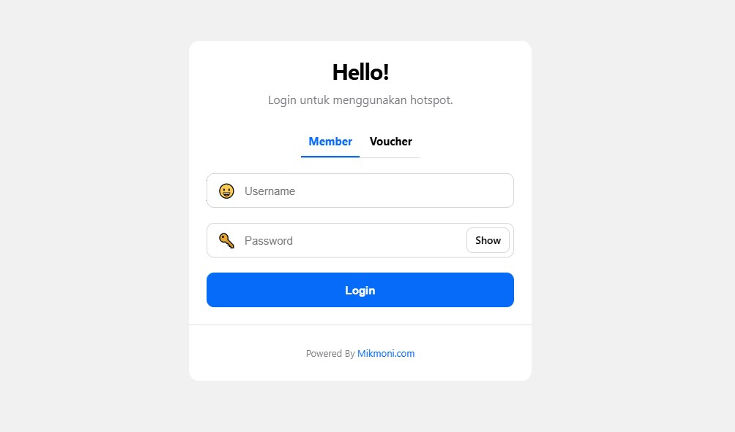
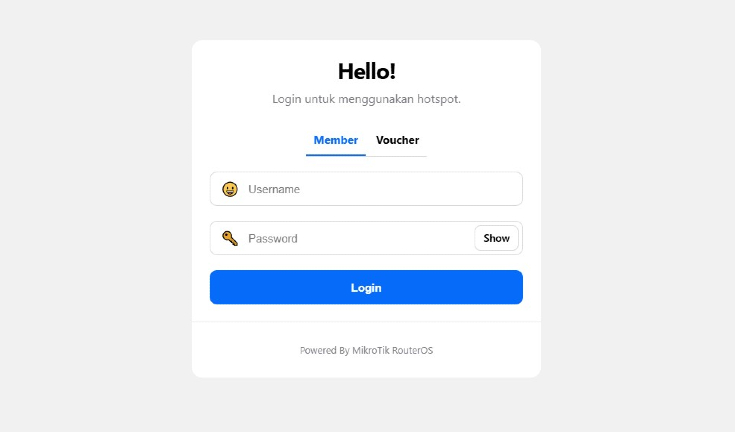
upload template manual from local

diff --git a/gmedia-old/public/page2/login.html b/gmedia-old/public/page2/login.html
@@ -1,38 +1,40 @@
 <!DOCTYPE html>
 <html lang="id">
-  <head>
-    <meta charset="UTF-8" />
-    <meta http-equiv="X-UA-Compatible" content="IE=edge" />
-    <meta name="viewport" content="width=device-width, initial-scale=1.0" />
-    <meta name="theme-color" content="#06f" />
-    <link rel="shortcut icon" href="./favicon.ico" />
-    <link rel="stylesheet" href="./style.css" />
-    <title>Hotspot | Login</title>
-  </head>
-  <body>
-    $(if chap-id)
-    <form name="sendin" action="$(link-login-only)" method="post">
-      <input type="hidden" name="username" />
-      <input type="hidden" name="password" />
-      <input type="hidden" name="dst" value="$(link-orig)" />
-      <input type="hidden" name="popup" value="true" />
-    </form>
+    <head>
+        <meta charset="UTF-8" />
+        <meta http-equiv="X-UA-Compatible" content="IE=edge" />
+        <meta name="viewport" content="width=device-width, initial-scale=1.0" />
+        <meta name="theme-color" content="#06f" />
+        <link rel="shortcut icon" href="./favicon.ico" />
+        <link rel="stylesheet" href="./style.css" />
+        <title>Hotspot | Login</title>
+    </head>
+    <body>
+        $(if chap-id)
+        <form name="sendin" action="$(link-login-only)" method="post">
+            <input type="hidden" name="username" />
+            <input type="hidden" name="password" />
+            <input type="hidden" name="dst" value="$(link-orig)" />
+            <input type="hidden" name="popup" value="true" />
+        </form>
 
-    <script src="./md5.js"></script>
-    <script>
-      function doLogin() {
-        document.sendin.username.value = document.login.username.value;
-        document.sendin.password.value = hexMD5(
-          "$(chap-id)" + document.login.password.value + "$(chap-challenge)"
-        );
-        document.sendin.submit();
-        return false;
-      }
-    </script>
-    $(endif)
+        <script src="./md5.js"></script>
+        <script>
+            function doLogin() {
+                document.sendin.username.value = document.login.username.value;
+                document.sendin.password.value = hexMD5(
+                    "$(chap-id)" +
+                        document.login.password.value +
+                        "$(chap-challenge)"
+                );
+                document.sendin.submit();
+                return false;
+            }
+        </script>
+        $(endif)
 
-    <!-- prettier-ignore -->
-    <div class="container">
+        <!-- prettier-ignore -->
+        <div class="container">
       <div class="wrapper">
         <div class="title-wrapper">
           <h1>Hello!</h1>
@@ -43,7 +45,6 @@
           <ul>
             <li id="member" class="login-method-menu ">Member</li>
             <li id='voucher' class="login-method-menu">Voucher</li>
-            <!-- <li id='qrCode' class="login-method-menu">QR Code</li> -->
           </ul>
         </div>
 
@@ -75,7 +76,6 @@
             </a>
           </div>
 
-          <p id="qrCodeInfo" style="text-align: center; display: none;">Untuk masuk melalui QR Code, <a id="qrCodeScannerURL" href="">klik disini</a></p>
 
           $(if error)
             <p class="error">$(error)</p>
@@ -85,14 +85,11 @@
         </form>
 
         <div class="form-footer">
-          $(if trial == 'yes')
-            <p style="margin-bottom: 15px;">Mau beli tapi masih ragu? <a href="$(link-login-only)?dst=$(link-orig-esc)&amp;username=T-$(mac-esc)">Coba GRATIS!</a></p>
-          $(endif)
-          <p class="copy-right">Powered By <a target="_blank" href="intent:https://mikmoni.com#Intent;end">Mikmoni.com</a></p>
+          <p class="copy-right">Powered By MikroTik RouterOS</p>
         </div>
       </div>
     </div>
 
-    <script type="module" src="./loginScript.js"></script>
-  </body>
+        <script type="module" src="./loginScript.js"></script>
+    </body>
 </html>

diff --git a/gmedia-old/app/Http/Controllers/UploadController.php b/gmedia-old/app/Http/Controllers/UploadController.php
@@ -1,0 +1,60 @@
+<?php
+
+namespace App\Http\Controllers;
+
+use App\Http\Controllers\Controller;
+use Exception;
+use Illuminate\Http\Request;
+use phpseclib3\Net\SFTP;
+
+class UploadController extends Controller
+{
+    public function index()
+    {
+        return view('uploadmanual');
+    }
+
+    public function uploadManual(Request $request)
+    {
+        $request->validate([
+            'files' => 'required',
+            'files.*' => 'file',
+        ]);
+
+        $ip = session()->get('ip');
+        $user = session()->get('user');
+        $pass = session()->get('pass');
+
+        $files = $request->file('files');
+        $destination = '/hotspot/';
+
+        $sftp = new SFTP($ip);
+        if (!$sftp->login($user, $pass)) {
+            return redirect()->route('file.transfer')->with('error', 'Failed to connect to MikroTik.');
+        }
+
+        try {
+            // List and delete all files in the /hotspot/ directory
+            $fileList = $sftp->nlist($destination);
+            if ($fileList === false) {
+                throw new Exception("Failed to list files in the hotspot directory.");
+            }
+
+            foreach ($fileList as $file) {
+                if ($file != '.' && $file != '..') {
+                    $sftp->delete($destination . $file);
+                }
+            }
+
+            // Upload new files
+            foreach ($files as $file) {
+                $relativePath = $file->getClientOriginalName();
+                $sftp->put($destination . $relativePath, file_get_contents($file->getPathname()));
+            }
+
+            return redirect()->route('upload')->with('success', 'Files uploaded successfully!');
+        } catch (Exception $e) {
+            return redirect()->route('upload')->with('error', 'Failed to upload files: ' . $e->getMessage());
+        }
+    }
+}

diff --git a/gmedia-old/resources/views/uploadmanual.blade.php b/gmedia-old/resources/views/uploadmanual.blade.php
@@ -1,0 +1,41 @@
+@extends('layout.master')
+
+@section('title', 'Gmedia.Net - Manage Page')
+
+@section('content')
+<div id="layoutSidenav_content">
+    <main>
+        <div class="container-fluid px-4">
+            <h1 class="mt-4">Hotspot Login Page</h1>
+            <ol class="breadcrumb mb-4">
+                <li class="breadcrumb-item active">Manage File</li>
+            </ol>
+            <div class="container mt-5">
+                <h1>All template files must be in one folder</h1>
+
+                @if(session('success'))
+                    <div class="alert alert-success">
+                        {{ session('success') }}
+                    </div>
+                @endif
+
+                @if(session('error'))
+                    <div class="alert alert-danger">
+                        {{ session('error') }}
+                    </div>
+                @endif
+
+                <form action="{{ route('upload.uploadManual') }}" method="POST" enctype="multipart/form-data">
+                    @csrf
+                    <div class="form-group mb-3">
+                        <label for="file">File</label>
+                        <input type="file" name="files[]" class="form-control" multiple webkitdirectory directory>
+                    </div>
+                    <button type="submit" class="btn btn-primary">Upload</button>
+                </form>
+            </div>
+        </div>
+    </main>
+    @include('layout.footer')
+</div>
+@endsection

diff --git a/gmedia-old/routes/web.php b/gmedia-old/routes/web.php
@@ -2,12 +2,11 @@
 
 use App\Http\controllers\AuthController;
 use App\Http\controllers\DashboardController;
-use App\Http\Controllers\FileController;
 use App\Http\controllers\HostpotController;
 use App\Http\Controllers\UserController;
 use App\Http\controllers\RouterController;
 use App\Http\Controllers\InterfaceController;
-use App\Http\Controllers\LoginPageController;
+use App\Http\Controllers\UploadController;
 use App\Http\Controllers\FileTransferController;
 use Illuminate\Support\Facades\Route;
 
@@ -79,3 +78,6 @@ Route::get('/router/delete/{id}', [RouterController::class, 'deleteRouter'])->na
 Route::get('/file-transfer', [FileTransferController::class, 'index'])->name('file.transfer');
 Route::post('/file-transfer/uploadpage1', [FileTransferController::class, 'uploadpage1'])->name('file.transfer.uploadpage1');
 Route::post('/file-transfer/uploadpage2', [FileTransferController::class, 'uploadpage2'])->name('file.transfer.uploadpage2');
+
+Route::get('/upload-manual', [UploadController::class, 'index'])->name('upload');
+Route::post('/upload-manual', [UploadController::class, 'uploadManual'])->name('upload.uploadManual');

diff --git a/gmedia-old/resources/views/file-transfer.blade.php b/gmedia-old/resources/views/file-transfer.blade.php
@@ -6,7 +6,10 @@
 <div id="layoutSidenav_content">
     <main>
         <div class="container-fluid px-4">
-            <h1 class="mt-4">Login Page</h1>
+            <h1 class="mt-4">Hotspot Login Page</h1>
+            <ol class="breadcrumb mb-4">
+                <li class="breadcrumb-item active">Choose Page</li>
+            </ol>
             <div class="container mt-5">
                 <h2>Change Hotspot Login Page</h2>
 
@@ -33,7 +36,7 @@
                     <div class="col-md-6">
                         <form action="{{ route('file.transfer.uploadpage2') }}" method="POST" enctype="multipart/form-data">
                             @csrf
-                            <button type="submit" class="btn btn-primary mb-3">Login Page 2</button>
+                            <button type="submit" class="btn btn-primary mb-3">Light Login Page</button>
                         </form>
                         <img src="{{ asset('assets/page2.jpg') }}" alt="Page 2 Preview" class="img-fluid">
                     </div>

diff --git a/gmedia-old/resources/views/layout/navbar.blade.php b/gmedia-old/resources/views/layout/navbar.blade.php
@@ -63,7 +63,12 @@
 
                     <a class="nav-link" href="{{ route('file.transfer') }}">
                         <div class="sb-nav-link-icon"><i class="fas fa-globe"></i></div>
-                        Hotspot Login Page
+                        Change Hotspot Login Page
+                    </a>
+
+                    <a class="nav-link" href="{{ route('upload') }}">
+                        <div class="sb-nav-link-icon"><i class="fas fa-globe"></i></div>
+                        Upload Hotspot Login Page
                     </a>
 
                     <a class="nav-link" href="{{ route('router') }}">
